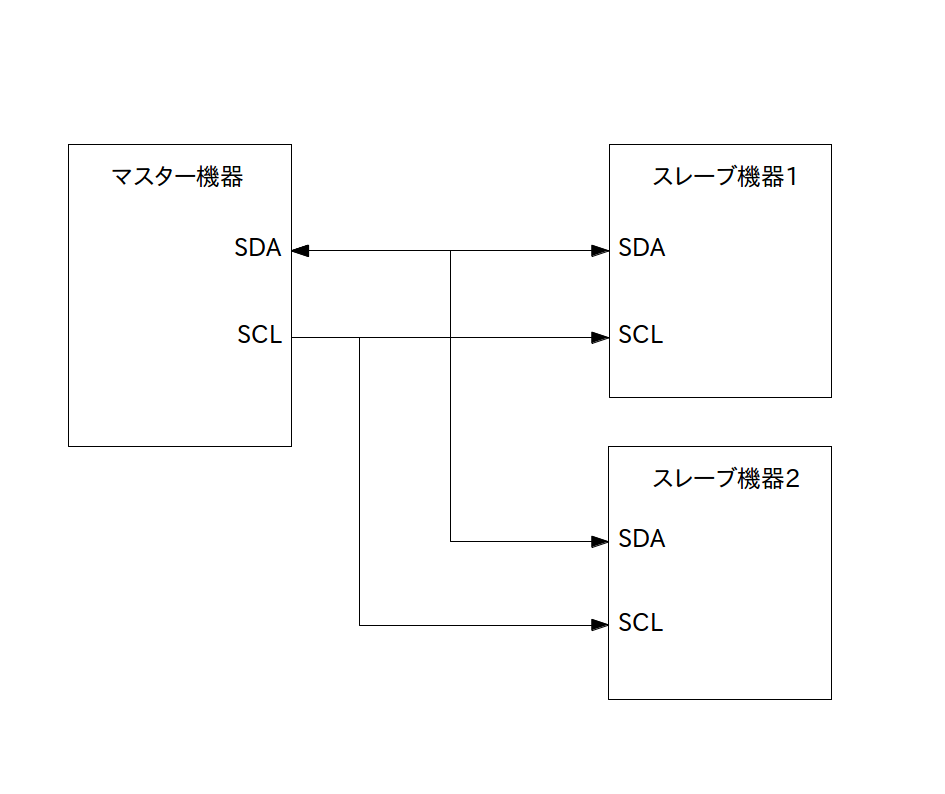
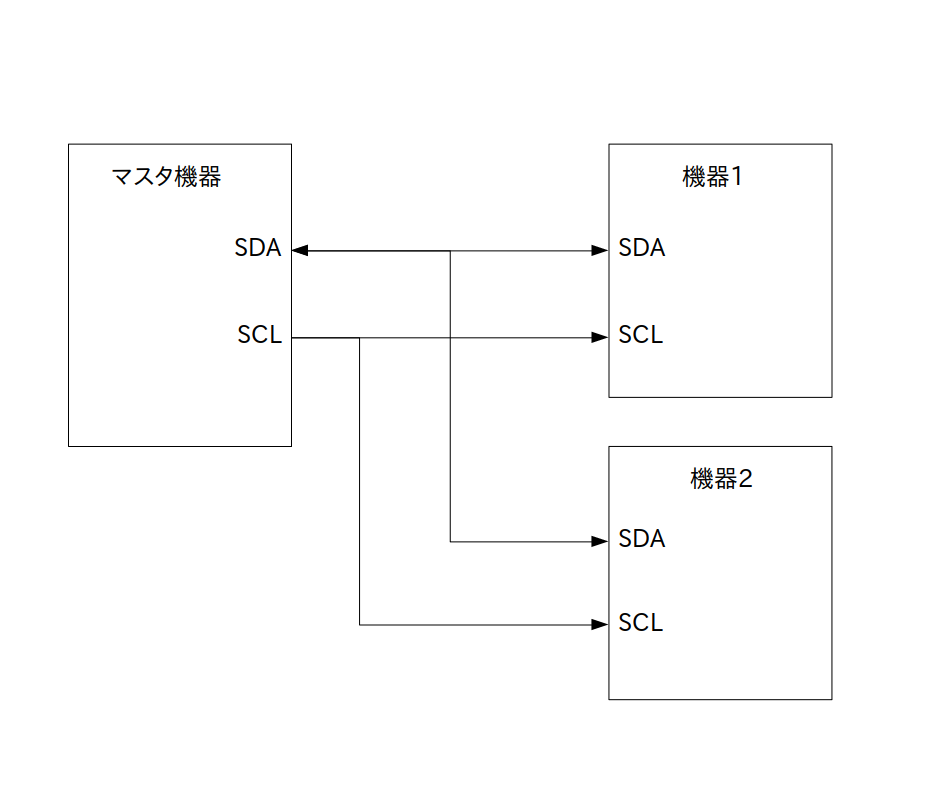
IO更新

diff --git a/docs/activity/IO/text07/practice.html b/docs/activity/IO/text07/practice.html
@@ -26,13 +26,90 @@
 <br>
 <h2><a href="./page01.html">1. I2C とは</a></h2>
 
+
+<p>
+<input type="checkbox"><b>演習 7-1 (個人PC、30分):</b> I2C 通信で音声合成 LSI (ATP3011F1-PU)に文字列を送信し、任意の音声を出力をしてみましょう。プログラムの仕様は以下の通りです。
+</p>
+<div class="info">
+<p>
+<b>仕様 : </b>
+
+<ol>
+<li>「音声合成ＬＳＩ　ＡＴＰ３０１１ (ATP3011F1-PU)」を I2C 経由で使用する</li>
+<li> ATP3011 のピン配置は<a href="../text06/practice.html">こちら</a>を参照</li>
+<li> PIC 側をマスターとする</li>
+<li> I2Cのクロックは「100 KHz」とする</li>
+<li> 5000ミリ秒おきに適当な言葉を発声する
+</ol>
+
+</div>
+
+<div class="olradio">
+<p>
+<span class="olradio"><input type="radio" name="p1"></span> プロジェクト「IO_6_2」を「IO_7_1」にコピーします。
+<br>
+<span class="olradio"><input type="radio" name="p1"></span> プロジェクト IO_6_2 を閉じます。
+<br>
+<span class="olradio"><input type="radio" name="p1"></span> (もし開きっぱなしになっていたら) 前のプロジェクトで開いていたソースを全て閉じます。
+<br>
+<span class="olradio"><input type="radio" name="p1"></span> (IDEのバージョンによっては) プロジェクトのプロパティを開き、そのまま「Apply」ボタンを押して設定ファイルを更新します。※ 通常は自動で設定ファイルが更新されますが、バージョンによってはバグのため自動更新されないようです
+<br>
+<span class="olradio"><input type="radio" name="p1"></span> setting.h を開き、一旦全ての機能をオフにします。
+<br>
+<span class="olradio"><input type="radio" name="p1"></span> I2C(USE_MSSP1_I2C) のコメントアウトを解除します。 
+<br>
+<span class="olradio"><input type="radio" name="p1"></span> Modlules/mssp_i2c.c を開きます。
+<br>
+<span class="olradio"><input type="radio" name="p1"></span> main.c を開き、ファイルの中身を<a href="./src/IO_7_1_main.txt">テンプレート</a>の内容に置き換えて下さい。
+<br>
+<span class="olradio"><input type="radio" name="p1"></span> 穴埋め問題になっていますので、プログラム内のコメントを参考に？のところを正しい内容に修正してください。
+<br>
+<span class="olradio"><input type="radio" name="p1"></span> 回路を作成します。
+</p>
+<p>
+以下の設定に従って回路を作成して下さい。
+<br>
+(*) が前の演習からの変更箇所です。
+</p>
+<div class="info">
+<pre class="wrap">
+<b>ピン配置設定・回路接続方法:</b>
+
+1: RA2
+2: RA3
+3: CCP4 (PWM) -- 圧電スピーカ
+4: MCLR/VPP -- PICkit の 1: NMCLR
+5: VSS -- GND
+6: RB0/INT (GPIO入力/INT割り込み) -- スイッチ
+(*)7: SDA1 (I2C) -- ATP3011 の 27 : SDA  ※要プルアップ抵抗
+8: Rx (UART) -- RN-42 の J2-6 : TX (UART)
+9: CCP1 (PWM) -- オシロスコープ
+
+(*)10: SCL1 (I2C) -- ATP3011 の 28 : SCL ※要プルアップ抵抗
+11: Tx (UART) -- RN-42 の J2-7 : RX (UART)
+12: ICSPCLK -- PICkit の 5: PGC
+13: ICSPDAT -- PICkit の 4: PGD
+14: VDD -- 3.3V
+(*)15: RA6 ※ SPIで使っていたジャンパケーブルを外す
+(*)16: RA7 ※ SPIで使っていたジャンパケーブルを外す
+17: RA0 (GPIO出力) -- LED
+18: AN1 (ADC) -- 可変抵抗の中央ピン
+</pre>
+</div>
+<p>
+<span class="olradio"><input type="radio" name="p1"></span> 書き込みボタンを押して正常に動作する事を確認して下さい。 
+<br>
+<span class="olradio"><input type="radio" name="p1"></span> 指定場所に「mssp_i2c.c」と「main.c」を記入してください。
+</p>
+
+
 <br>
 <p>
-<input type="checkbox"><b>演習 6-1 (個人PC、70分):</b> Arduino UNO で I2C 経由で加速度センサからデータを受け取りましょう。
+<input type="checkbox"><b>演習 6-2 (個人PC、70分):</b> Arduino UNO で I2C 経由で加速度センサからデータを受け取りましょう。
 </p>
 <div class="olradio">
 <p>
-<span class="olradio"><input type="radio" name="p1"></span>仕様は以下の通りです。
+<span class="olradio"><input type="radio" name="p2"></span>仕様は以下の通りです。
 </p>
 <div class="info">
 <b>仕様:</b>
@@ -72,11 +149,11 @@
 </p>
 </div>
 <p>
-<span class="olradio"><input type="radio" name="p1"></span>データシート等を見ながら回路を組んで下さい。
+<span class="olradio"><input type="radio" name="p2"></span>データシート等を見ながら回路を組んで下さい。
 <br>
-<span class="olradio"><input type="radio" name="p1"></span>回路を組んだらファシリテータの確認を受けて下さい。
+<span class="olradio"><input type="radio" name="p2"></span>回路を組んだらファシリテータの確認を受けて下さい。
 <br>
-<span class="olradio"><input type="radio" name="p1"></span>プログラムを書いて Arduino UNO に転送して下さい。
+<span class="olradio"><input type="radio" name="p2"></span>プログラムを書いて Arduino UNO に転送して下さい。
 今回のプログラム内で利用するＡＤＸＬ３４５のレジスタは以下の8つだけです(その他のレジスタはデータシートの25ページ目を参照して下さい)。
 </p>
 <table>
@@ -186,7 +263,7 @@ for( int i=0; i < 読み込むバイト数; ++i){
 ※5 loopの中でサンプリング値を加速度に変換してから虫眼鏡に表示して下さい。サンプリング値が -512 の時は -2G、+512 の時は +2G です。
 </p>
 <p>
-<span class="olradio"><input type="radio" name="p1"></span>動作確認して下さい。
+<span class="olradio"><input type="radio" name="p2"></span>動作確認して下さい。
 </p>
 <p>
 ※1 加速度の検出方向はデータシートのP34に書いてあります。
@@ -194,9 +271,9 @@ for( int i=0; i < 読み込むバイト数; ++i){
 ※2 <b>次回の演習でプログラムを再利用するので、画面出力が仕様の(7)に沿っていることを確認して下さい</b>
 </p>
 <p>
-<span class="olradio"><input type="radio" name="p1"></span>動作したらファシリテータの確認を受けて下さい。
+<span class="olradio"><input type="radio" name="p2"></span>動作したらファシリテータの確認を受けて下さい。
 <br>
-<span class="olradio"><input type="radio" name="p1"></span>ソースコードをドキュメントにコピーして下さい。
+<span class="olradio"><input type="radio" name="p2"></span>ソースコードをドキュメントにコピーして下さい。
 </p>
 </div>
 

diff --git a/docs/activity/IO/text07/page01.html b/docs/activity/IO/text07/page01.html
@@ -20,53 +20,55 @@
 <h2><script>GetTitle()</script></h2>
 
 <p>
-I2C(Inter Integrated Circuit)はシリアル通信を行うためのインターフェースで、「アイ・ツー・シー」「アイ・アイ・シー」「アイ・スクエア・シー」等と呼ばれています。「IIC」と表記されることもあります。
+I2C(Inter Integrated Circuit)はシリアル通信を行うためのインターフェースで、「アイ・ツー・シー」「アイ・アイ・シー」「アイ・スクエア・シー」等と呼ばれています。
+<br>
+「IIC」と表記されることもあります。
 </p>
 
 <p>
-I2C は SDA ピン、SCL ピンという 2 ピンを使ってデータを送受信します(実際には GND も繋ぎます)。ただし、1対1でしか通信出来なかった RS-232C と違い、マスタ・スレーブ方式で複数の機器と接続してデータをやりとり出来るという利点があります。また送信速度も RS-232C よりかなり高速です。
+I2C は SDA ピン、SCL ピンという 2 ピンを使ってデータを送受信します。
 </p>
 
 <p>
-一方、ノイズに強くて遠距離でもデータを送れる RS-232C と違ってノイズに弱いので、マスタ・スレーブ機器がかなりの近距離(例えば同じ基板の上とか)に無いとうまくデータを送れません。また通信手順が RS-232C や SPIよりも複雑です。通信速度も SPI の方が速いです。
+1対1でしか通信出来なかった<a href="../text02/page01.html">UART</a>と異なり、I2C にはマスタ・スレーブ方式(※)で複数の機器と接続してデータをやりとり出来るという利点があります。
+<br>
+またクロック信号で同期を取るので UART よりも高速にデータを送受信できます。
+<br>
+使用する信号線も少ないので配線も楽に出来ます。
+<br>
+一方、送受信を開始する前にデバイスのアドレス指定が必要だったり、ACK/NACKを使って応答確認をする必要があるのでプログラムは複雑になります。
 </p>
 
 <p>
-さて I2C の各ピンの正式名称と用途、及び接続例は以下の通りです。
+※ 世界的にマスタ・スレーブという用語を違う用語で置き換えようという流れになっていますが、現時点(2020年12月)ではどう置き換えるか完全には決まっていない様なので、とりあえず今の所はマスタ・スレーブという用語を使います。
+</p>
+
+<p>
+さて I2C は以下の様に接続します。 
 </p>
 
 <div class="info">
-<input type="checkbox"><b>SDA / SCL ピンの正式名称と用途:</b>
+<input type="checkbox"><b>I2C の接続方法:</b>
 <p>
-SDA : シリアル・データ ・・・データの送受信に使う(マスタ ←→ スレーブの方向はモードで切替)
+SDA : シリアル・データ ・・・データを送受信する
 </p>
 <p>
-SCL : シリアル・クロック・ ・・・マスタ・スレーブ機器間の同期を取るためのクロック信号を送る
+SCL : シリアル・クロック・ ・・・クロック信号
 </p>
 
+<p>
+※1 マスタ機器が送受信開始時にデバイスのアドレスを指定して通信対象の機器を選択する 
 <br>
-<input type="checkbox"><b>図1: 接続例 </b>
-<p>矢印の向きにデータが送られる</p>
+※2 マスタ機器が送受信開始時に送信モード、受信モードを選択する(つまりSDA上でデータが流れる方向を選択)
+<br>
+※3 マスタ機器が SCL を使ってクロック信号を送って同期を取る 
+</p>
+
 <img src="./img/page01-fig1.png" alt="">
 
 </div>
 
-<p>
-前述したように I2C はマスタ・スレーブ方式の通信を行うのでマスタ機器が送受信を全て管理しています。したがってスレーブ機器からは基本的に送受信を開始することは出来ません。
-</p>
-
-<p>
-スレーブ機器にはそれぞれ個別のアドレスが割り当てられています。マスタ機器が通信を開始したい時は対象のスレーブ機器のアドレスを SDA ピン経由で全てのスレーブ機器に知らせます。
-</p>
-
-<p>
-その後マスタ機器と指名を受けたスレーブ機器は SDA ピン経由でデータをやりとりします。
-</p>
-
-<p>
-なお SCL ピンはデータの送受信には使わず、マスタ・スレーブ機器間の同期を取るためのクロック信号を送るためのピンとして使われています。 
-</p>
-
+<br>
 <script>PreNext(1,1)</script>
 </body>
 </html>

diff --git a/docs/activity/IO/text06/practice.html b/docs/activity/IO/text06/practice.html
@@ -37,7 +37,7 @@
 <ol>
 <li>「音声合成ＬＳＩ　ＡＴＰ３０１１ (ATP3011F1-PU)」を SPI 経由で使用する</li>
 <li> PIC 側をマスターとする</li>
-<li> SPI のモードは「MODE0」、ビットオーダーは「MSBFIRST」、クロックは「1 MHz」とする</li>
+<li> SPI のモードは「MODE3」、ビットオーダーは「MSBFIRST」、クロックは「1 MHz」とする</li>
 </ol>
 
 </div>
@@ -70,7 +70,7 @@
 <tr>
 <td class="center">4</td>
 <td class="center">SMOD0</td>
-<td rowspan="2"> 通信モードの設定<br>SMOD0=0、SMOD=0 → SPI(MODE0)<br>SMOD0=0、SMOD=1 → I2C</td>
+<td rowspan="2"> 通信モードの設定<br>SMOD0=0、SMOD1=0 → SPI(MODE0)<br>SMOD0=1、SMOD1=0 → SPI(MODE3)<br>SMOD0=0、SMOD1=1 → I2C</td>
 </tr>
 <tr>
 <td class="center">5</td>
@@ -118,14 +118,14 @@
 <tr>
 <td class="center">12</td>
 <td class="center">AOUT</td>
-<td class="center">スピーカー(アンプ)に接続</td>
+<td class="center">アンプの Audio In に接続</td>
 </tr>
 
 
 <tr>
 <td class="center">13</td>
 <td class="center"><span class="overline">PLAY</span></td>
-<td class="center">未接続</td>
+<td class="center">アンプの <span class="overline">CE</span> に接続</td>
 </tr>
 
 
@@ -145,7 +145,7 @@
 <tr>
 <td class="center">15</td>
 <td class="center">PMOD1</td>
-<td > 動作モードの設定<br> 詳しくは PMOD0 参照</td>
+<td > 動作モードの設定<br> PMOD0=0、PMOD1=1 → セーフモード</td>
 </tr>
 
 <tr>
@@ -213,7 +213,7 @@
 <tr>
 <td class="center">27</td>
 <td class="center">SDA</td>
-<td rowspan="2"class="center" > <b>I2C 接続用ピン</b> </td>
+<td rowspan="2"class="center" > <b>I2C 接続用ピン</b><br><br>要プルアップ抵抗(5KΩ程度) </td>
 </tr>
 <tr>
 <td class="center">28</td>
@@ -261,17 +261,17 @@
 4: MCLR/VPP -- PICkit の 1: NMCLR
 5: VSS -- GND
 6: RB0/INT (GPIO入力/INT割り込み) -- スイッチ
-(*)7: SDI1 -- ATP3011 の 18 : SDO
+(*)7: SDI1 (SPI) -- ATP3011 の 18 : SDO
 8: Rx (UART) -- RN-42 の J2-6 : TX (UART)
 9: CCP1 (PWM) -- オシロスコープ
 
-(*)10: SCK1 -- ATP3011 の 19 : SCK
+(*)10: SCK1 (SPI) -- ATP3011 の 19 : SCK
 11: Tx (UART) -- RN-42 の J2-7 : RX (UART)
 12: ICSPCLK -- PICkit の 5: PGC
 13: ICSPDAT -- PICkit の 4: PGD
 14: VDD -- 3.3V
-(*)15: SDO1 -- ATP3011 の 17 : SDI
-(*)16: CS -- ATP3011 の 16 : CS
+(*)15: SDO1 (SPI) -- ATP3011 の 17 : SDI
+(*)16: CS (SPI) -- ATP3011 の 16 : CS
 17: RA0 (GPIO出力) -- LED
 18: AN1 (ADC) -- 可変抵抗の中央ピン
 </pre>
@@ -302,7 +302,7 @@ dummy(ff) : >
 
 </pre>
 </div>
-</p>
+<p>
 <span class="olradio"><input type="radio" name="p1"></span> 指定場所に「mssp_spi.c」と「main.c」を記入してください。
 </p>
 

diff --git a/docs/activity/IO/index.html b/docs/activity/IO/index.html
@@ -33,7 +33,7 @@
 なし
 </p>
 <p>
-最終更新日: 2020/12/2
+最終更新日: 2020/12/6
 </p>
 </div>
 
